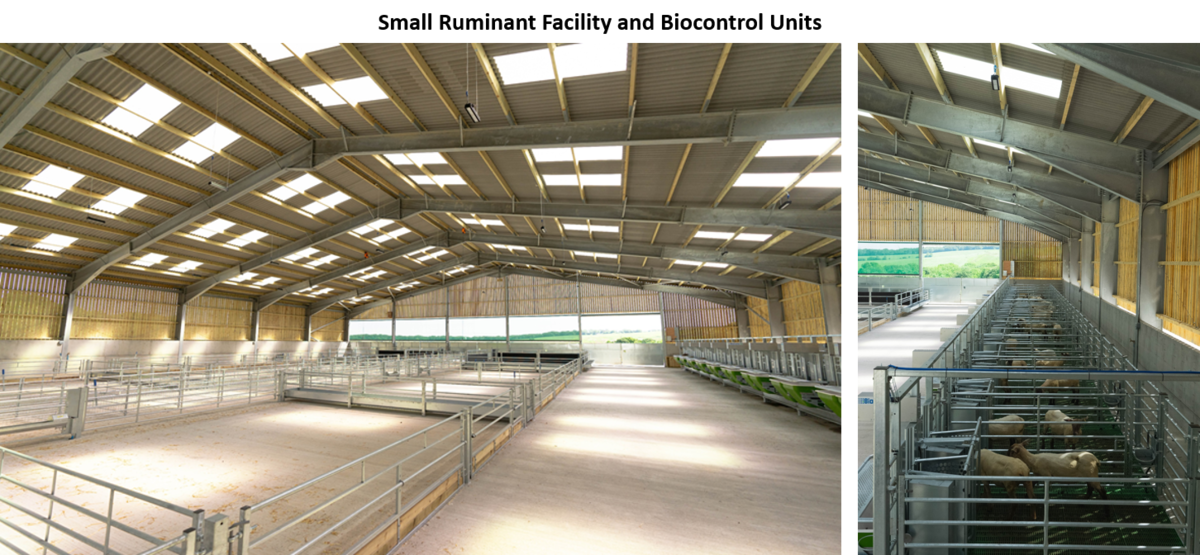
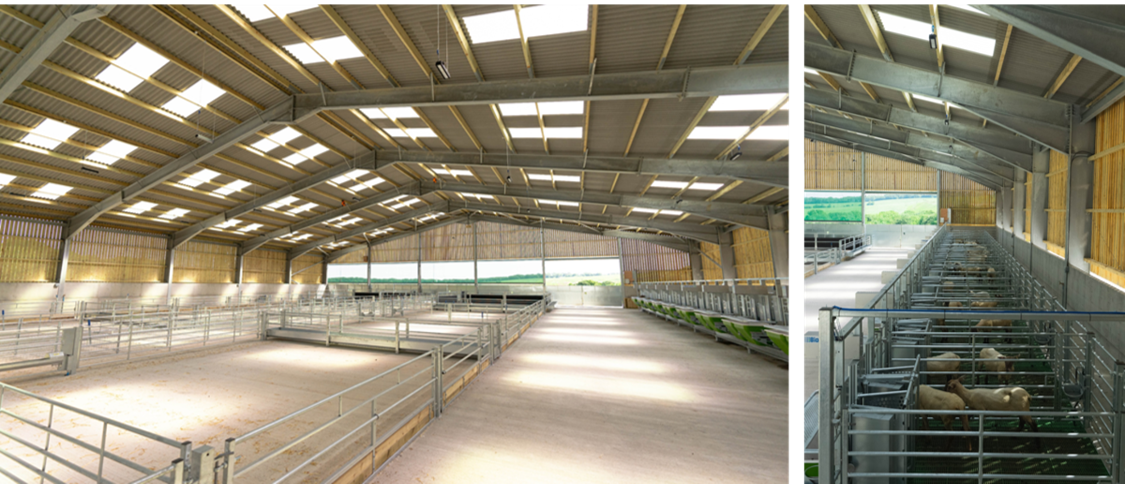
Addition of filestore page, small edits and updated SRF image

diff --git a/resources/views/content/filestore.blade.php b/resources/views/content/filestore.blade.php
@@ -1,0 +1,68 @@
+<x-guest-layout>
+    <x-slot name="header">
+            <h2 class="text-xl font-semibold leading-tight text-gray-800">
+                {{ __('Supplementary Information and Data Summaries') }}
+            </h2>
+    </x-slot>
+    <div class="p-3">
+        <p>Information and data summary files that are not available on the Data Portal can be directly 
+        downloaded from the Farm Platform file store and includes:</p><br>
+        <h2 class="mt-4 h-8 content-center bg-nw-blue-700 px-4 text-lg font-medium text-nw-blue-50">
+        Supplementary Information Files</h2>
+        <br>
+        <ul class="list-disc pl-5">
+            <li><a href="https://nwfp.rothamsted.ac.uk/fpdownload/ArcGIS_SHP_Files/showfiles.aspx"
+                            style="color: blue; text-decoration: underline",
+                            onclick="window.open(this.href, '', 'resizable=yes,status=no,location=yes,toolbar=no,menubar=yes,fullscreen=no,scrollbars=yes,dependent=no'); return false;">
+                            ArcGIS Shape Files of the Farm Platform fields
+                </a>
+            </li>
+          
+            <li><a href="https://nwfp.rothamsted.ac.uk/fpdownload/Farm_Platform_Maps/showfiles.aspx"
+                            style="color: blue; text-decoration: underline",
+                            onclick="window.open(this.href, '', 'resizable=yes,status=no,location=yes,toolbar=no,menubar=yes,fullscreen=no,scrollbars=yes,dependent=no'); return false;">
+                            Farm Platform Maps
+                </a>
+           
+            <li><a href="https://nwfp.rothamsted.ac.uk/fpdownload/DB_Updates/showfiles.aspx"
+                            style="color: blue; text-decoration: underline",
+                            onclick="window.open(this.href, '', 'resizable=yes,status=no,location=yes,toolbar=no,menubar=yes,fullscreen=no,scrollbars=yes,dependent=no'); return false;">
+                            Database Updates
+                </a>
+        </ul>
+        <br>
+        <h2 class="mt-4 h-8 content-center bg-nw-blue-700 px-4 text-lg font-medium text-nw-blue-50">
+        Data Summary Files</h2>
+        <br>
+        <ul class="list-disc pl-5">
+            <li><a href="https://nwfp.rothamsted.ac.uk/fpdownload/SummaryStatistics_15min_Data/showfiles.aspx"
+                            style="color: blue; text-decoration: underline",
+                            onclick="window.open(this.href, '', 'resizable=yes,status=no,location=yes,toolbar=no,menubar=yes,fullscreen=no,scrollbars=yes,dependent=no'); return false;">
+                            Daily and 4-weekly Summary Statistics of the 15-Minute data
+                </a>
+            </li>
+
+            <li><a href="https://nwfp.rothamsted.ac.uk/fpdownload/QC_Reports/15_minute%20QC-reports/Reports_QC_v3/showfiles.aspx"
+                            style="color: blue; text-decoration: underline",
+                            onclick="window.open(this.href, '', 'resizable=yes,status=no,location=yes,toolbar=no,menubar=yes,fullscreen=no,scrollbars=yes,dependent=no'); return false;">
+                            Quality Control Reports
+                </a>
+            </li>
+    
+            <li><a href="https://nwfp.rothamsted.ac.uk/fpdownload/QC_Reports/15_minute_Data_Reports_External/Annual_Reports/showfiles.aspx"
+                            style="color: blue; text-decoration: underline",
+                            onclick="window.open(this.href, '', 'resizable=yes,status=no,location=yes,toolbar=no,menubar=yes,fullscreen=no,scrollbars=yes,dependent=no'); return false;">
+                            Annual 15-Minute Data Summary Statistics
+                </a>
+           
+            <li><a href="https://nwfp.rothamsted.ac.uk/fpdownload/Animal_Counts_Gantts/showfiles.aspx"
+                            style="color: blue; text-decoration: underline",
+                            onclick="window.open(this.href, '', 'resizable=yes,status=no,location=yes,toolbar=no,menubar=yes,fullscreen=no,scrollbars=yes,dependent=no'); return false;">
+                            Animal Count Pivot Tables
+                </a>
+            </li>
+        </ul>
+    </div>
+
+
+</x-guest-layout>

diff --git a/resources/views/layouts/navigation-menu.blade.php b/resources/views/layouts/navigation-menu.blade.php
@@ -18,13 +18,16 @@
                             {{ __('Where to get Data') }}
                         </x-dropdown-link>
                         <x-dropdown-link href="{{ route('content.with.page', ['page' => 'data_collection']) }}">
-                            {{ __('Datasets available and record counts') }}
+                            {{ __('Datasets Available and Record Counts') }}
                         </x-dropdown-link>
                         <x-dropdown-link href="{{ route('nw-guides') }}">
-                            {{ __('Data Guides') }}
+                            {{ __('Data User Guides') }}
+                        </x-dropdown-link>
+                        <x-dropdown-link href="{{ route('content.with.page', ['page' => 'filestore']) }}">
+                            {{ __('Supplementary Information') }}
                         </x-dropdown-link>
                         <x-dropdown-link href="{{ route('content.with.page', ['page' => 'information']) }}">
-                            {{ __('Known Issues and Workarounds') }}
+                            {{ __('Known Issues and Workarounds on the Data Portal') }}
                         </x-dropdown-link>
                         <x-dropdown-link
                             href="http://exadcon.rothamsted.ac.uk/livedata/collection.jsf?template=weather&node=4826&units=metric">

diff --git a/resources/views/livewire/publications/nw_guides.blade.php b/resources/views/livewire/publications/nw_guides.blade.php
@@ -1,7 +1,7 @@
 <div>
     <x-slot name="sub-header">
         <h2 class="text-xl font-semibold leading-tight text-gray-800">
-            {{ __('North Wykes Farm Platform Data Guides') }}
+            {{ __('North Wyke Farm Platform Data User Guides') }}
         </h2>
     </x-slot>
 

diff --git a/resources/views/content/nw-guides.blade.php b/resources/views/content/nw-guides.blade.php
@@ -1,7 +1,7 @@
 <x-guest-layout>
     <x-slot name="header">
         <h2 class="text-xl font-semibold leading-tight text-gray-800">
-            {{ __('Data Guides') }}
+            {{ __('Data User Guides') }}
         </h2>
     </x-slot>
 
